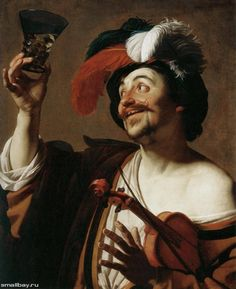
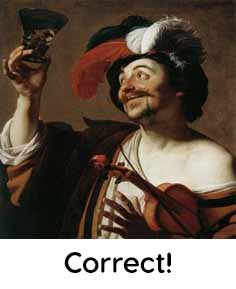
Update

diff --git a/index.html b/index.html
@@ -27,7 +27,7 @@
 
   <div class="main-container">
     <img src="https://guesstheartist.netlify.com/img/af.png" alt="Logo" class="logo">
-    <img src="./correct.jpg" alt="" id="correctAns" style="padding-left: 33.2%;; height: 156px;">
+    <img src="./correct.jpg" alt="" id="correctAns">
     <div class="container-fluid small-wrap">
       <div id="hangman-figure">
         <div id="gallow">

diff --git a/style.css b/style.css
@@ -35,7 +35,12 @@ p {
   margin-bottom: 36px;
   height: 72px;
   padding-top: 20px;
+}
 
+#correctAns{
+  margin: 0 auto;
+  display: block;
+  height: 158px;
 }
 
 #alphabet {
